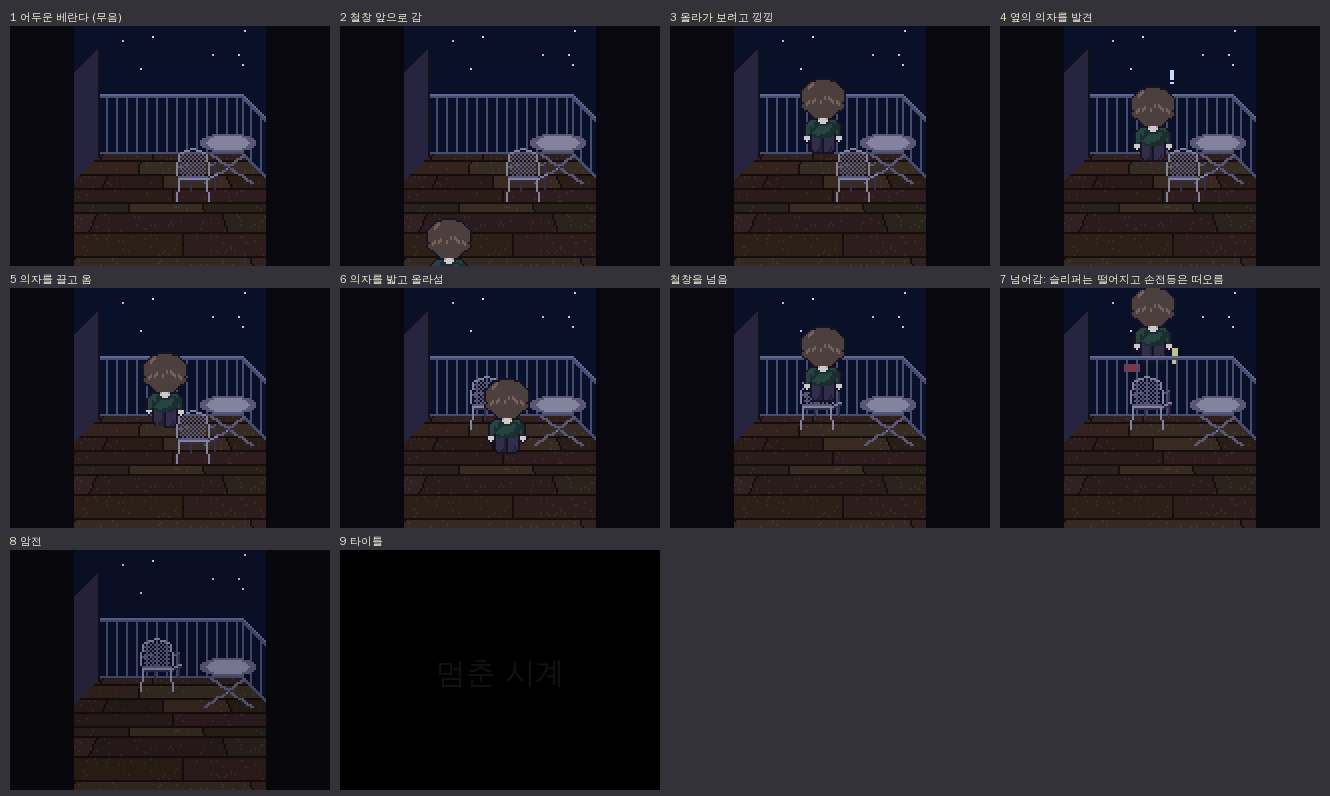
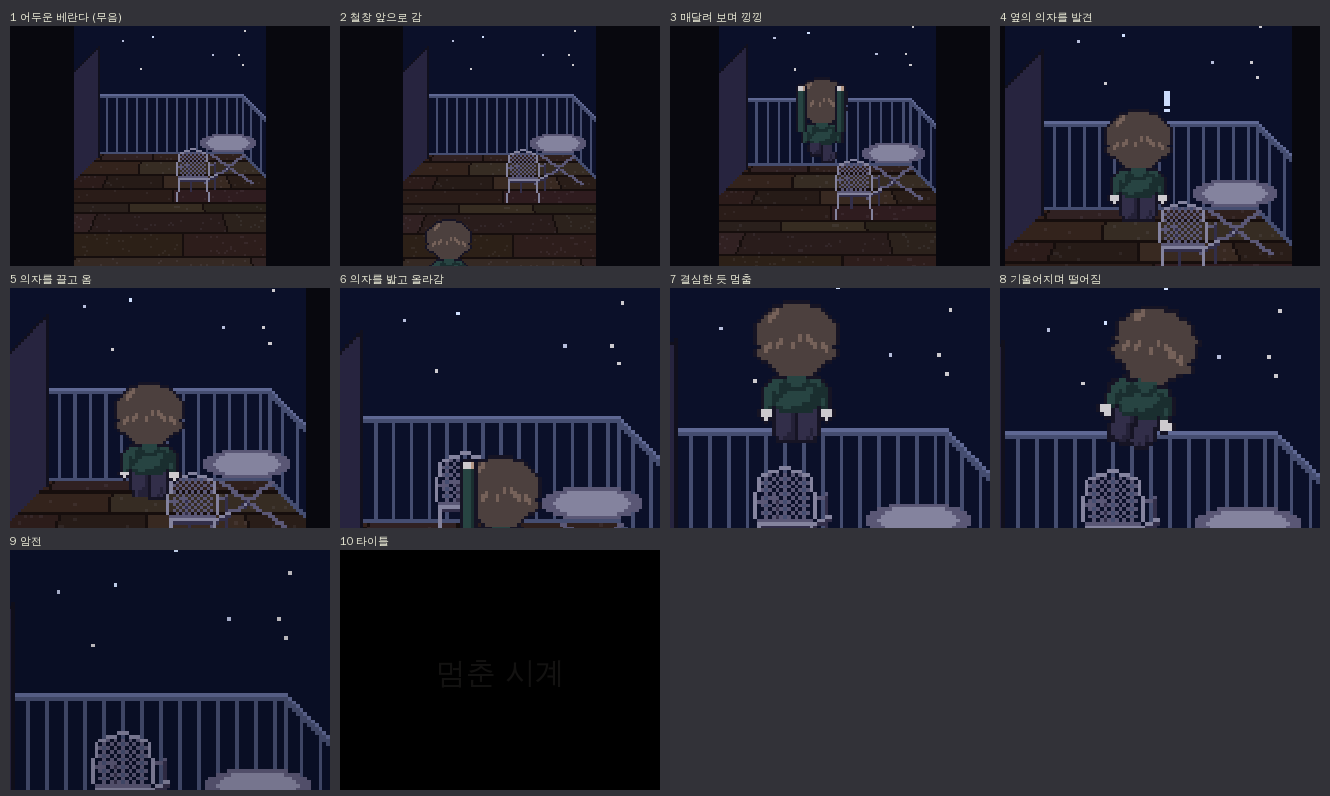
Cutscene: back-view poses (walk/reach/hang/climb), progressive zoom, determined pause then tilt-fall
Claude-Session: https://claude.ai/code/session_01FPZSaKiVNU2zED737yZX4w

diff --git a/tools/gen_cutscene_prologue.py b/tools/gen_cutscene_prologue.py
@@ -1,123 +1,128 @@
 #!/usr/bin/env python3
 """프롤로그 추락 컷신(1인칭: 베란다 정면, 올려다보는 구도) 초안.  사용: python3 tools/gen_cutscene_prologue.py
 출력: maps/out/prologue_cutscene.gif (10fps, 320x240), maps/out/prologue_cutscene_sheet.png (주요 컷)
-흐름: 무음 → 아이가 철창 앞으로 감 → 맨몸으로 올라가 보려고 낑낑 → 옆의 의자를 발견 → 의자를 끌고 와서 밟고 올라가 철창을 넘음 →
-슬리퍼 한 짝이 떨어지고 손전등이 떠오름 → 타이틀. 착지는 그리지 않는다. 아이는 철창 쪽(뒤)을 보고 있으므로 앞모습 스프라이트의 얼굴을 머리색으로 덮어 뒷모습으로 쓴다."""
+흐름: 무음 → 철창 앞으로 걸어감 → 맨몸으로 매달려 보며 낑낑 → 옆의 의자를 발견 → 의자를 끌고 와 밟고 올라섬 →
+철창 위에서 결심한 듯 잠깐 멈춤 → 앞으로 기울어지며 떨어짐(슬리퍼는 떨어지고 손전등은 떠오름) → 암전 → 타이틀. 착지는 그리지 않는다.
+카메라는 컷신이 진행될수록 천천히 확대되어, 떨어질 때는 왼쪽 벽이 화면 밖으로 나간다."""
 import math, os, sys
 from PIL import Image, ImageDraw, ImageFont
 sys.path.insert(0, os.path.dirname(os.path.abspath(__file__)))
-import render_balcony2d as B
+import render_balcony2d as B, gen_child_back as CB
 
-SPR = os.path.join(os.path.dirname(os.path.abspath(__file__)), '..', 'art', 'out', 'sprites')
 OUT = os.path.join(os.path.dirname(os.path.abspath(__file__)), '..', 'maps', 'out')
-HAIR, SKIN, SKIN2 = (90, 70, 54, 255), (242, 220, 180, 255), (211, 165, 116, 255)
-
-def back(name):
-    im = Image.open(os.path.join(SPR, name + '.png')).convert('RGBA'); px = im.load()
-    for y in range(20):                                     # 머리 부분의 얼굴색 -> 머리색(뒷모습)
-        for x in range(im.width):
-            if px[x, y] in (SKIN, SKIN2): px[x, y] = HAIR
-    return im
-IDLE = back('child'); WALK = [back(f'child_w{i}') for i in (1, 2, 3, 4)]
+P = CB.make(); WALK, IDLE, HANG, CLIMB, REACH = P['walk'], P['idle'], P['hang'], P['climb'], P['reach']
 SLIP = Image.new('RGBA', (8, 4), (150, 60, 60, 255)); LIGHT = Image.new('RGBA', (3, 8), (230, 210, 120, 255))
 FONT = ImageFont.truetype('/usr/share/fonts/truetype/wqy/wqy-zenhei.ttc', 30)
-
-BASE_Y = 79; RAIL_TOP = 50
-frames, labels = [], []
+BASE_Y, RAIL_TOP = 79, 50
+SS = 8                                                     # 카메라 계산용 내부 확대(소수 배율 확대를 부드럽게)
+frames, labels, cams = [], [], []
 
 def lerp(a, b, t): return a + (b - a) * t
+def ease(t): return t * t * (3 - 2 * t)
 
-def render(state):
-    """state: dict(chair=(x,y), child=(cx,feet_y,sprite,layer), slip=(x,y)|None, light=(x,y)|None, fade=0..1, title=0..1)"""
+def render(st, cam):
+    """st: chair, child=(cx, feet_y, sprite, layer, angle), slip, light, bang, fade, title.  cam: (중심x, 중심y, 화면배율)"""
     def actors(im, stage):
-        ch = state.get('child')
+        ch = st.get('child')
         if ch and ch[3] == stage:
-            cx, fy, spr = ch[0], ch[1], ch[2]
-            tmp = Image.new('RGBA', im.size, (0, 0, 0, 0)); tmp.alpha_composite(spr, (int(cx - spr.width / 2), int(fy - spr.height)))
-            if stage == 'behind':                           # 철창 바깥: 바닥(y>=BASE_Y) 아래로 떨어지면 보이지 않는다
-                for y in range(BASE_Y, im.height):
-                    for x in range(im.width): tmp.putpixel((x, y), (0, 0, 0, 0))
+            cx, fy, spr, _, ang = ch
+            if ang:                                         # 발을 축으로 기울인다
+                big = Image.new('RGBA', (spr.width * 3, spr.height * 2), (0, 0, 0, 0)); big.alpha_composite(spr, (spr.width, 0))
+                spr = big.rotate(ang, resample=Image.NEAREST, center=(spr.width * 1.5, spr.height))
+                ox, oy = cx - spr.width / 2, fy - spr.height / 2
+            else:
+                ox, oy = cx - spr.width / 2, fy - spr.height
+            tmp = Image.new('RGBA', im.size, (0, 0, 0, 0)); tmp.alpha_composite(spr, (int(ox), int(oy)))
+            if stage == 'behind':                           # 철창 바깥: 바닥선 아래로는 보이지 않는다
+                tmp.paste((0, 0, 0, 0), (0, BASE_Y, im.width, im.height))
             im.alpha_composite(tmp)
-        if stage == 'front' and state.get('bang') and ch:
-            for dx, dy in [(x, y) for x in (0, 1) for y in range(0, 5)] + [(0, 6), (1, 6)]: im.putpixel((int(ch[0] + 9 + dx), int(ch[1] - 46 + dy)), (240, 240, 220, 255))
+            if stage == 'front' and st.get('bang'):
+                for dx in (0, 1):
+                    for dy in list(range(5)) + [6]: im.putpixel((int(cx + 9 + dx), int(fy - 44 + dy)), (240, 240, 220, 255))
         if stage == 'behind':
             for key, spr in (('slip', SLIP), ('light', LIGHT)):
-                p = state.get(key)
+                p = st.get(key)
                 if p and p[1] < BASE_Y: im.alpha_composite(spr, (int(p[0]), int(p[1])))
-    sc = B.scene(chair_pos=(int(state['chair'][0]), int(state['chair'][1])), actors=actors)
-    big = sc.resize((192, 272), Image.NEAREST).crop((0, 32, 192, 272))
-    c = Image.new('RGB', (320, 240), (8, 8, 14)); c.paste(big.convert('RGB'), (64, 0))
-    f = state.get('fade', 0)
-    if f: c = Image.blend(c, Image.new('RGB', c.size, (0, 0, 0)), f)
-    t = state.get('title', 0)
-    if t:
+    sc = B.scene(chair_pos=(int(st['chair'][0]), int(st['chair'][1])), actors=actors).convert('RGB')
+    cx, cy, s = cam; vw, vh = 320 / s, 240 / s
+    big = sc.resize((sc.width * SS, sc.height * SS), Image.NEAREST)
+    box = [int((cx - vw / 2) * SS), int((cy - vh / 2) * SS), int((cx + vw / 2) * SS), int((cy + vh / 2) * SS)]
+    view = Image.new('RGB', (box[2] - box[0], box[3] - box[1]), (8, 8, 14)); view.paste(big, (-box[0], -box[1]))
+    c = view.resize((320, 240), Image.NEAREST)
+    if st.get('fade'): c = Image.blend(c, Image.new('RGB', c.size, (0, 0, 0)), st['fade'])
+    if st.get('title'):
         d = ImageDraw.Draw(c); txt = '멈춘 시계'; w = d.textlength(txt, font=FONT)
-        col = tuple(int(v * t) for v in (230, 225, 205)); d.text(((320 - w) / 2, 104), txt, font=FONT, fill=col)
+        d.text(((320 - w) / 2, 104), txt, font=FONT, fill=tuple(int(v * st['title']) for v in (230, 225, 205)))
     return c
 
-def add(state, n=1, label=''):
-    for i in range(n):
-        frames.append(render(state))
-        labels.append(label if i == 0 else '')
+def add(st, n=1, label=''):
+    for i in range(n): frames.append(st); labels.append(label if i == 0 else '')
 
-chair = [48, 105]
-S = dict(chair=tuple(chair), child=None)
+CH0 = (48, 105); GOAL = (30, 88)
+S = dict(chair=CH0)
+def kid(x, y, spr, layer='front', ang=0): return (x, y, spr, layer, ang)
 # 1. 무음: 빈 베란다
 add(S, 8, '1 어두운 베란다 (무음)')
-# 2. 아이가 앞쪽(보는 쪽) 왼쪽에서 들어와 철창 앞으로 간다
-SPOT = (44, 84)                                              # 철창 앞에서 넘어보려는 자리(의자 목표 위치의 바로 앞)
-start = (22, 150); steps = 28
-for i in range(steps):
-    t = i / (steps - 1); wlk = WALK[(i // 3) % 4]
-    add(dict(S, child=(lerp(start[0], SPOT[0], t), lerp(start[1], SPOT[1], t), wlk, 'front')), 1, '2 철창 앞으로 감' if i == 0 else '')
-add(dict(S, child=(SPOT[0], SPOT[1], IDLE, 'front')), 5)
-# 3. 맨몸으로 올라가 보려고 낑낑: 폴짝 뛰고 매달리듯 떨다가 미끄러져 내려온다(세 번)
+# 2. 철창 앞으로 걸어감(뒷모습 걷기)
+SPOT = (44, 84); start = (22, 150)
+for i in range(28):
+    t = i / 27; add(dict(S, child=kid(lerp(start[0], SPOT[0], t), lerp(start[1], SPOT[1], t), WALK[(i // 3) % 4])), 1, '2 철창 앞으로 감' if i == 0 else '')
+add(dict(S, child=kid(*SPOT, IDLE)), 4)
+# 3. 맨몸으로 매달려 보며 낑낑(세 번): 팔을 뻗고 → 폴짝 매달려 다리를 버둥 → 미끄러져 내려옴
 for k in range(3):
-    for i in range(3): add(dict(S, child=(SPOT[0], SPOT[1] - 5 * math.sin(math.pi * (i + 1) / 3.5), IDLE, 'front')), 1, '3 올라가 보려고 낑낑' if (k == 0 and i == 0) else '')
-    for i in range(6): add(dict(S, child=(SPOT[0] + (1 if i % 2 else -1), SPOT[1] - 2, IDLE, 'front')))          # 버티며 떤다
-    add(dict(S, child=(SPOT[0], SPOT[1], IDLE, 'front')), 3)
-add(dict(S, child=(SPOT[0], SPOT[1], IDLE, 'front')), 6)         # 지친 듯 멈춤
-# 4. 옆에 있는 의자를 발견한다(머리 위에 느낌표)
-add(dict(S, child=(SPOT[0], SPOT[1], IDLE, 'front'), bang=True), 8, '4 옆의 의자를 발견')
-# 5. 의자 쪽으로 가서 철창 앞으로 끌고 온다(두 번에 나눠, 중간에 쉰다)
-goal = (30, 88); cur = tuple(chair)
-behind = (chair[0] + 22, chair[1] + 15)
+    add(dict(S, child=kid(*SPOT, REACH)), 3, '3 매달려 보며 낑낑' if k == 0 else '')
+    for i in range(8): add(dict(S, child=kid(SPOT[0] + (1 if i % 2 else -1) * (i % 4 < 2), SPOT[1] - 5, HANG[(i // 2) % 2])))
+    for i in range(3): add(dict(S, child=kid(SPOT[0], SPOT[1] - 5 + (i + 1) * 5 / 3, REACH)))
+    add(dict(S, child=kid(*SPOT, IDLE)), 3)
+add(dict(S, child=kid(*SPOT, IDLE)), 6)
+# 4. 옆의 의자를 발견
+add(dict(S, child=kid(*SPOT, IDLE), bang=True), 8, '4 옆의 의자를 발견')
+# 5. 의자 쪽으로 가서 철창 앞으로 끌고 옴(두 번에 나눠, 중간에 쉼)
+behind = (CH0[0] + 22, CH0[1] + 15); cur = CH0
 for i in range(14):
-    t = (i + 1) / 14; add(dict(S, child=(lerp(SPOT[0], behind[0], t), lerp(SPOT[1], behind[1], t), WALK[(i // 3) % 4], 'front')), 1, '5 의자를 끌고 옴' if i == 0 else '')
+    t = (i + 1) / 14; add(dict(S, child=kid(lerp(SPOT[0], behind[0], t), lerp(SPOT[1], behind[1], t), WALK[(i // 3) % 4])), 1, '5 의자를 끌고 옴' if i == 0 else '')
 for k in range(2):
-    nxt = (lerp(chair[0], goal[0], (k + 1) / 2), lerp(chair[1], goal[1], (k + 1) / 2))
+    nxt = (lerp(CH0[0], GOAL[0], (k + 1) / 2), lerp(CH0[1], GOAL[1], (k + 1) / 2))
     for i in range(6):
-        t = (i + 1) / 6; cp = (lerp(cur[0], nxt[0], t), lerp(cur[1], nxt[1], t))
-        add(dict(chair=cp, child=(cp[0] + 22, cp[1] + 15, WALK[(i + k) % 4], 'front')))
-    cur = nxt
-    add(dict(chair=cur, child=(cur[0] + 22, cur[1] + 15, IDLE, 'front')), 6)
-CH = cur; cx = CH[0] + 14
-# 6. 의자를 밟고 올라서서 철창 윗줄까지 올라 넘는다
-seat_y = CH[1] - 12
+        t = (i + 1) / 6; cp = (lerp(cur[0], nxt[0], t), lerp(cur[1], nxt[1], t)); add(dict(chair=cp, child=kid(cp[0] + 22, cp[1] + 15, WALK[(i + k) % 4])))
+    cur = nxt; add(dict(chair=cur, child=kid(cur[0] + 22, cur[1] + 15, IDLE)), 6)
+CH = cur; cx = CH[0] + 14; seat_y = CH[1] - 12
+# 6. 의자를 밟고 올라섬 → 철창을 타고 올라감(올라가기 동작 좌우 번갈아)
 for i in range(8):
-    t = (i + 1) / 8; add(dict(chair=CH, child=(lerp(CH[0] + 22, cx, t), lerp(CH[1] + 15, seat_y, t), IDLE, 'front')), 1, '6 의자를 밟고 올라섬' if i == 0 else '')
-add(dict(chair=CH, child=(cx, seat_y, IDLE, 'front')), 6)
-for i in range(10):
-    t = (i + 1) / 10; add(dict(chair=CH, child=(cx, lerp(seat_y, RAIL_TOP + 4, t), IDLE, 'front')), 1, '철창을 넘음' if i == 0 else '')
-add(dict(chair=CH, child=(cx, RAIL_TOP + 4, IDLE, 'front')), 4)
-# 7. 넘어가는 순간: 아이는 철창 바깥으로, 슬리퍼가 먼저 떨어지고 손전등은 떠오른다
-yy, v = RAIL_TOP + 2, 1.0
+    t = (i + 1) / 8; add(dict(chair=CH, child=kid(lerp(CH[0] + 22, cx, t), lerp(CH[1] + 15, seat_y, t), CLIMB[(i // 2) % 2])), 1, '6 의자를 밟고 올라감' if i == 0 else '')
+add(dict(chair=CH, child=kid(cx, seat_y, IDLE)), 4)
+for i in range(12):
+    t = (i + 1) / 12; add(dict(chair=CH, child=kid(cx, lerp(seat_y, RAIL_TOP + 4, t), CLIMB[(i // 3) % 2])))
+# 7. 철창 위에서 결심한 듯 잠깐 멈춤
+add(dict(chair=CH, child=kid(cx, RAIL_TOP + 4, IDLE)), 16, '7 결심한 듯 멈춤')
+# 8. 앞으로(철창 바깥쪽으로) 기울어지며 떨어짐: 슬리퍼는 떨어지고 손전등은 떠오른다
+for i in range(8):
+    add(dict(chair=CH, child=kid(cx + i * .4, RAIL_TOP + 4, IDLE, 'front', -(i + 1) * 3)), 1, '8 기울어지며 떨어짐' if i == 0 else '')
+yy, v, ang = RAIL_TOP + 4, .6, -24
 for i in range(14):
-    yy += v; v += 0.9
-    add(dict(chair=CH, child=(cx, yy, IDLE, 'behind'), slip=(cx - 14, RAIL_TOP + 4 + (i * 2.2) ** 1.2 * .8), light=(cx + 10, RAIL_TOP - 4 - i * .8)), 1, '7 넘어감: 슬리퍼는 떨어지고 손전등은 떠오름' if i == 0 else '')
-for i in range(12): add(dict(chair=CH, light=(cx + 10, RAIL_TOP - 14 - i * .8)), 1)
-# 7. 타이틀(착지는 그리지 않는다): 암전 후 제목
-for i in range(10): add(dict(chair=CH, fade=(i + 1) / 10), 1, '8 암전' if i == 0 else '')
-for i in range(12): add(dict(chair=CH, fade=1.0, title=(i + 1) / 12), 1, '9 타이틀' if i == 0 else '')
+    yy += v; v += .8; ang -= 4
+    add(dict(chair=CH, child=kid(cx + 4 + i * .3, yy, IDLE, 'behind', ang), slip=(cx - 12, RAIL_TOP + 2 + (i * 2.0) ** 1.25 * .8), light=(cx + 10, RAIL_TOP - 6 - i * .8)))
+for i in range(12): add(dict(chair=CH, light=(cx + 10, RAIL_TOP - 17 - i * .8)))
+# 9. 암전 → 타이틀(착지는 그리지 않는다)
+for i in range(10): add(dict(chair=CH, fade=(i + 1) / 10), 1, '9 암전' if i == 0 else '')
+for i in range(12): add(dict(chair=CH, fade=1.0, title=(i + 1) / 12), 1, '10 타이틀' if i == 0 else '')
 add(dict(chair=CH, fade=1.0, title=1.0), 14)
 
+# 카메라: 처음(전체, 2배) → 떨어지는 순간(약 3.8배, 철창·의자 중심, 왼쪽 벽이 화면 밖) 으로 천천히 확대
+fall_i = labels.index('8 기울어지며 떨어짐')
+for i in range(len(frames)):
+    t = ease(min(1, i / fall_i))
+    s = lerp(2.0, 3.8, t); vw = 320 / s
+    cx = lerp(48, 55, t); cx = min(cx, 96 - vw / 2) if vw < 96 else cx       # 오른쪽 끝 밖(빈 공간)이 보이지 않게
+    cams.append((cx, lerp(76, 44, t), s))
+imgs = [render(st, cam) for st, cam in zip(frames, cams)]
 os.makedirs(OUT, exist_ok=True)
-frames[0].save(os.path.join(OUT, 'prologue_cutscene.gif'), save_all=True, append_images=frames[1:], duration=100, loop=0, optimize=False)
+imgs[0].save(os.path.join(OUT, 'prologue_cutscene.gif'), save_all=True, append_images=imgs[1:], duration=100, loop=0)
 idx = [i for i, l in enumerate(labels) if l]
 cols = 4; rows = math.ceil(len(idx) / cols)
 sheet = Image.new('RGB', (cols * 330 + 10, rows * 262 + 10), (50, 50, 56)); d = ImageDraw.Draw(sheet)
 F = ImageFont.truetype('/usr/share/fonts/truetype/wqy/wqy-zenhei.ttc', 11)
 for n, i in enumerate(idx):
     x, y = 10 + (n % cols) * 330, 10 + (n // cols) * 262
-    sheet.paste(frames[i], (x, y + 16)); d.text((x, y), labels[i], fill=(230, 230, 210), font=F)
-sheet.save(os.path.join(OUT, 'prologue_cutscene_sheet.png')); print(len(frames), 'frames ->', OUT)
+    sheet.paste(imgs[i + (4 if labels[i].startswith(('3', '8')) else 0)], (x, y + 16)); d.text((x, y), labels[i], fill=(230, 230, 210), font=F)
+sheet.save(os.path.join(OUT, 'prologue_cutscene_sheet.png')); print(len(imgs), 'frames')

diff --git a/tools/gen_child_back.py b/tools/gen_child_back.py
@@ -1,0 +1,73 @@
+#!/usr/bin/env python3
+"""주인공 뒷모습 동작 스프라이트(컷신용, 24x42: 위로 뻗은 팔을 위해 위쪽 4칸 여유).
+걷기 4장(앞모습 걷기에서 얼굴·옷깃을 뒷모습으로), 서기, 매달리기(두 팔 위, 다리 버둥 2장), 올라가기(한 팔·한 다리 위, 좌우 2장).
+사용: python3 tools/gen_child_back.py -> art/out/sprites/child_b_*.png"""
+import os
+from PIL import Image
+SPR = os.path.join(os.path.dirname(os.path.abspath(__file__)), '..', 'art', 'out', 'sprites')
+A, HAIR, HL = (26, 22, 32, 255), (90, 70, 54, 255), (138, 106, 78, 255)
+SKIN, SKIN2, SH, SH2 = (242, 220, 180, 255), (211, 165, 116, 255), (47, 74, 58, 255), (31, 51, 41, 255)
+PAD = 4
+CLEAR = (0, 0, 0, 0)
+
+def base(name):
+    src = Image.open(os.path.join(SPR, name + '.png')).convert('RGBA')
+    im = Image.new('RGBA', (24, 38 + PAD), CLEAR); im.alpha_composite(src, (0, PAD)); px = im.load()
+    for y in range(PAD, PAD + 20):                         # 얼굴 -> 뒷머리
+        for x in range(24):
+            if px[x, y] in (SKIN, SKIN2): px[x, y] = HAIR
+    for y in range(PAD + 19, PAD + 24):                    # 앞 옷깃 -> 등판
+        for x in range(24):
+            if px[x, y] in (SKIN, SKIN2): px[x, y] = SH
+    return im
+
+def drop_hand(im, side):
+    """옆으로 내린 손(29~32줄 바깥쪽)을 지운다. side: 'l' | 'r'"""
+    px = im.load()
+    for y in range(PAD + 29, PAD + 33):
+        for x in (range(0, 7) if side == 'l' else range(17, 24)): px[x, y] = CLEAR
+
+def arm_up(im, side, top=PAD + 7):
+    """어깨(23줄)에서 머리 옆으로 짧게 들어 올린 팔(2등신 비율). top: 손 윗끝 높이"""
+    px = im.load(); xs = (1, 2, 3, 4, 5) if side == 'l' else (18, 19, 20, 21, 22)
+    for y in range(top + 3, PAD + 24):                     # 소매
+        px[xs[0], y] = A; px[xs[1], y] = SH; px[xs[2], y] = SH; px[xs[3], y] = SH2; px[xs[4], y] = A
+    for y in range(top + 1, top + 3):                      # 손
+        px[xs[0], y] = A; px[xs[1], y] = SKIN; px[xs[2], y] = SKIN; px[xs[3], y] = SKIN2; px[xs[4], y] = A
+    for x in xs[1:4]: px[x, top] = A
+
+def lift_leg(im, side, dy):
+    """다리(29~37줄)를 dy칸 들어 올린다(무릎 굽힘)."""
+    px = im.load(); xs = range(6, 12) if side == 'l' else range(12, 18)
+    block = {(x, y): px[x, y] for x in xs for y in range(PAD + 29, PAD + 38)}
+    for (x, y) in block: px[x, y] = CLEAR
+    for (x, y), c in block.items():
+        if y - dy >= PAD + 29 and c[3]: px[x, y - dy] = c
+    for x in xs:                                            # 들린 발바닥 선
+        if px[x, PAD + 37 - dy][3]: px[x, PAD + 37 - dy] = A
+
+def make():
+    out = {}
+    out['walk'] = [base(f'child_w{i}') for i in (1, 2, 3, 4)]
+    out['idle'] = base('child')
+    hang = []
+    for k in range(2):
+        im = base('child'); drop_hand(im, 'l'); drop_hand(im, 'r'); arm_up(im, 'l', PAD + 3); arm_up(im, 'r', PAD + 3)
+        lift_leg(im, 'l' if k == 0 else 'r', 3); hang.append(im)
+    out['hang'] = hang
+    climb = []
+    for side in ('l', 'r'):
+        im = base('child'); drop_hand(im, side); arm_up(im, side, PAD + 1); lift_leg(im, side, 5); climb.append(im)
+    out['climb'] = climb
+    reach = base('child'); drop_hand(reach, 'l'); drop_hand(reach, 'r'); arm_up(reach, 'l', PAD + 5); arm_up(reach, 'r', PAD + 5)
+    out['reach'] = reach
+    return out
+
+if __name__ == '__main__':
+    s = make()
+    flat = [('walk%d' % i, im) for i, im in enumerate(s['walk'], 1)] + [('idle', s['idle']), ('reach', s['reach'])] + \
+           [('hang%d' % i, im) for i, im in enumerate(s['hang'], 1)] + [('climb%d' % i, im) for i, im in enumerate(s['climb'], 1)]
+    for n, im in flat: im.save(os.path.join(SPR, 'child_b_' + n + '.png'))
+    sheet = Image.new('RGBA', (len(flat) * 30 * 4, 46 * 4), (40, 44, 60, 255))
+    for i, (n, im) in enumerate(flat): sheet.alpha_composite(im.resize((96, 168), Image.NEAREST), (i * 120 + 12, 8))
+    sheet.save(os.path.join(SPR, '..', '..', '..', 'maps', 'out', 'child_back_poses.png')); print(len(flat), 'poses')
